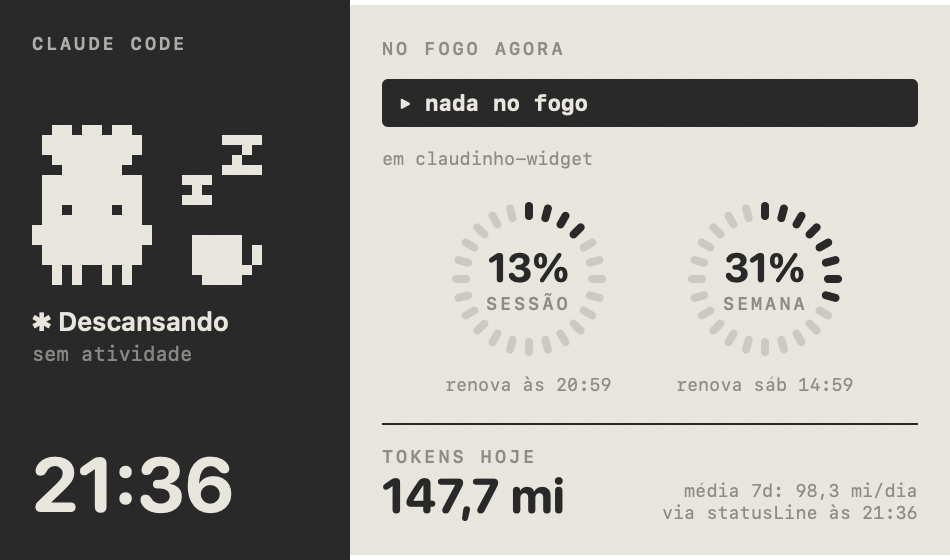
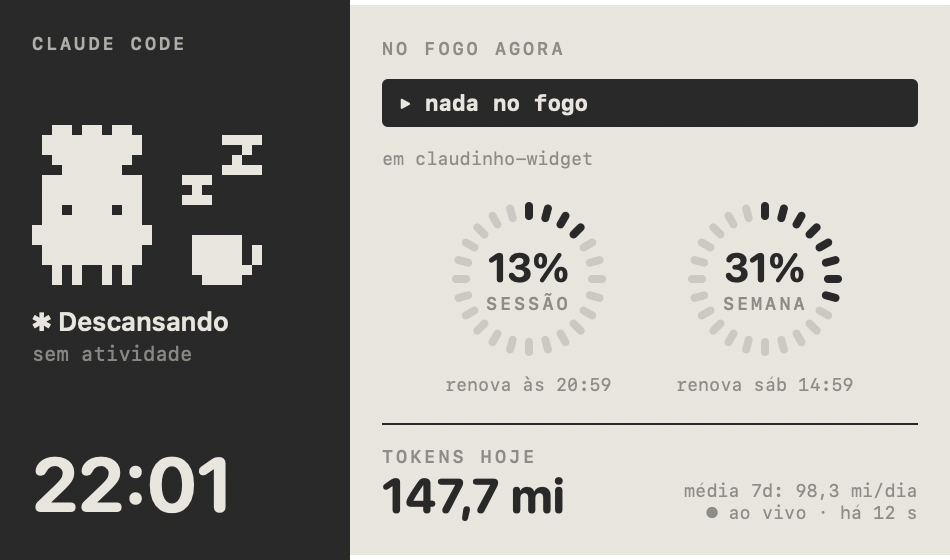
Créditos ao kindle-claude, hooks fora do repo e README atualizado
- Créditos detalhados ao Guilherme Pessoa (@guithepc · @pctheonee) no
  README, aviso MIT dele no LICENSE e nos scripts adaptados.
- setup.py copia os hooks pra ~/.claudinho/hooks: o repo pode ser
  apagado depois de instalar.
- Rodapé do painel mais curto ("● ao vivo · há 12 s") e imagens do
  README regeneradas.

Changed region(s): [[0.0916, 0.7893, 0.2442, 0.9411], [0.7021, 0.9107, 0.9768, 0.9411]]

diff --git a/Sources/App.swift b/Sources/App.swift
@@ -339,9 +339,10 @@ struct Panel: View {
                     }
                     Spacer()
                     Text("média 7d: \(Fmt.tokens(s.avg7dTokens))/dia\n" + (s.calibrated
-                         ? "ao vivo via \(m.config.calibration!.source ?? "/usage") · \(Fmt.ago(m.config.calibration!.at))"
+                         ? "● ao vivo · \(Fmt.ago(m.config.calibration!.at))"
                          : "% estimado pelos logs"))
                         .font(.system(size: 9, design: .monospaced)).foregroundStyle(faded).multilineTextAlignment(.trailing)
+                        .help(s.calibrated ? "última leitura real via \(m.config.calibration!.source ?? "/usage")" : "sem leitura real nesta janela")
                 }
             }
             .padding(16)

diff --git a/tools/preview/main.swift b/tools/preview/main.swift
@@ -27,7 +27,7 @@ func writePNG(_ cg: CGImage, _ url: URL) {
 
 @MainActor func panel(_ state: ChefState, tool: String?, detail: String?, name: String) {
     let m = Monitor(demo: state, snapshot: demoSnapshot(tool: tool, detail: detail))
-    m.config.calibration = Calibration(at: Date(), sessionPct: 0.13, sessionResetsAt: Date(), weekPct: 0.31, source: "statusLine")
+    m.config.calibration = Calibration(at: Date().addingTimeInterval(-12), sessionPct: 0.13, sessionResetsAt: Date(), weekPct: 0.31, source: "statusLine")
     let r = ImageRenderer(content: Panel(m: m).environment(\.colorScheme, .light))
     r.scale = 2
     writePNG(r.cgImage!, out.appendingPathComponent("estados/\(name).png"))

diff --git a/setup.py b/setup.py
@@ -1,9 +1,13 @@
 #!/usr/bin/env python3
 """Liga (ou desliga) os hooks e a statusLine do Claudinho no
 ~/.claude/settings.json. Faz backup antes de mexer e não apaga o que já existe.
+Os scripts são copiados pra ~/.claudinho/hooks, então o repo pode ser apagado depois.
 
     python3 setup.py            # instala
     python3 setup.py remover    # desfaz
+
+Adaptado do kindle-claude, de Guilherme Pessoa (MIT):
+https://github.com/guithepc/kindle-claude
 """
 import json
 import os
@@ -16,15 +20,21 @@ DATA = os.path.expanduser(os.environ.get("CLAUDINHO_DIR", "~/.claudinho"))
 ORIG = os.path.join(DATA, "orig_statusline.txt")
 SETTINGS = os.path.expanduser(os.environ.get("CLAUDINHO_SETTINGS", "~/.claude/settings.json"))
 PY = "/usr/bin/python3" if os.path.exists("/usr/bin/python3") else (sys.executable or "python3")
-HOOK_CMD = f'"{PY}" "{os.path.join(BASE, "hooks", "hook.py")}"'
-STATUS_CMD = f'"{PY}" "{os.path.join(BASE, "hooks", "statusline.py")}"'
+HOOKS = os.path.join(DATA, "hooks")
+HOOK_CMD = f'"{PY}" "{os.path.join(HOOKS, "hook.py")}"'
+STATUS_CMD = f'"{PY}" "{os.path.join(HOOKS, "statusline.py")}"'
 EVENTS = {"PreToolUse": "*", "PostToolUse": "*", "UserPromptSubmit": None,
           "Notification": None, "Stop": None, "SessionEnd": None}
-MARK = "claudinho-widget"
+# "claudinho-widget" reconhece instalações antigas, que apontavam pra pasta do repo.
+MARKS = (HOOKS, "claudinho-widget")
+
+
+def mine(cmd):
+    return any(m in (cmd or "") for m in MARKS)
 
 
 def ours(entry):
-    return any(MARK in (h.get("command") or "") for h in entry.get("hooks", []))
+    return any(mine(h.get("command")) for h in entry.get("hooks", []))
 
 
 def load():
@@ -46,8 +56,9 @@ def save(cfg):
 
 
 def install():
-    if MARK not in BASE:
-        sys.exit(f"A pasta do repo precisa se chamar {MARK} (o setup usa o nome pra achar os próprios hooks).")
+    os.makedirs(HOOKS, exist_ok=True)
+    for name in ("hook.py", "statusline.py"):
+        shutil.copy2(os.path.join(BASE, "hooks", name), os.path.join(HOOKS, name))
     cfg = load()
     hooks = cfg.setdefault("hooks", {})
     for event, matcher in EVENTS.items():
@@ -59,7 +70,7 @@ def install():
         hooks[event] = lst
 
     current = (cfg.get("statusLine") or {}).get("command", "")
-    if current and MARK not in current:
+    if current and not mine(current):
         os.makedirs(DATA, exist_ok=True)
         with open(ORIG, "w", encoding="utf-8") as f:
             f.write(current)
@@ -78,7 +89,7 @@ def remove():
             del hooks[event]
     if not hooks:
         cfg.pop("hooks", None)
-    if MARK in (cfg.get("statusLine") or {}).get("command", ""):
+    if mine((cfg.get("statusLine") or {}).get("command", "")):
         old = open(ORIG, encoding="utf-8").read().strip() if os.path.exists(ORIG) else ""
         if old:
             cfg["statusLine"] = {"type": "command", "command": old}

diff --git a/hooks/statusline.py b/hooks/statusline.py
@@ -1,7 +1,11 @@
 #!/usr/bin/env python3
 """statusLine do Claude Code: guarda o % exato da sessão (5h) e da semana em
 ~/.claudinho/statusline.json pro Claudinho, e imprime a linha de status.
-Se você já tinha uma statusLine, ela continua aparecendo no lugar desta."""
+Se você já tinha uma statusLine, ela continua aparecendo no lugar desta.
+
+Adaptado do kindle-claude, de Guilherme Pessoa (MIT):
+https://github.com/guithepc/kindle-claude
+"""
 import json
 import os
 import subprocess

diff --git a/hooks/hook.py b/hooks/hook.py
@@ -9,6 +9,9 @@ Só usa a biblioteca padrão, nunca imprime nada e nunca falha.
   Notification     -> pedindo permissão ou esperando você
   Stop             -> terminou
   SessionEnd       -> sessão fechada
+
+Adaptado do kindle-claude, de Guilherme Pessoa (MIT):
+https://github.com/guithepc/kindle-claude
 """
 import fcntl
 import json

diff --git a/README.md b/README.md
@@ -13,6 +13,8 @@ e quanto da sua janela de uso já foi pro fogo. Sem Kindle, sem servidor, sem Py
 
 <p align="center"><sub>Telas geradas pelo próprio app em modo demo (<code>./build.sh --preview</code>).</sub></p>
 
+> **Ideia original:** [kindle-claude](https://github.com/guithepc/kindle-claude), de **Guilherme Pessoa** ([@guithepc](https://github.com/guithepc) · @pctheonee), que transformou um Kindle velho num painel do Claude Code com o Claudinho chef. Este projeto é uma releitura dele pra barra de menu do Mac. Veja os [créditos](#créditos).
+
 ## O que é
 
 Na barra de menu fica o Claudinho animado e o % da sessão:
@@ -26,7 +28,7 @@ Clicando nele abre um painel no estilo e-ink com:
 - **Tokens de hoje** e a média diária dos últimos 7 dias.
 - **O Claudinho chef**, um mascote em pixel art que muda de animação conforme o estado.
 
-É uma releitura do [kindle-claude](https://github.com/guithepc/kindle-claude) pra quem não tem um Kindle sobrando: a mesma ideia e o mesmo clima de cozinha, só que num app nativo de 37 MB que fica parado quando você também está.
+É uma releitura do [kindle-claude](https://github.com/guithepc/kindle-claude) pra quem não tem um Kindle sobrando: a mesma ideia e o mesmo clima de cozinha, só que num app nativo de ~38 MB que acompanha o uso ao vivo e fica parado quando você também está.
 
 ## Os estados
 
@@ -85,7 +87,7 @@ O estado (pensando, ferramenta, terminou) vem dos **hooks** quando estão ligado
 ### Passo a passo
 
 ```sh
-git clone <url-deste-repo> claudinho-widget
+git clone https://github.com/AlmeidaSNicolas/claudinho-widget.git
 cd claudinho-widget
 ./install.sh              # compila, copia pra ~/Applications e abre no login
 python3 setup.py          # opcional: liga hooks e statusLine (faz backup do settings.json)
@@ -93,7 +95,14 @@ python3 setup.py          # opcional: liga hooks e statusLine (faz backup do set
 
 O Claudinho aparece na barra de menu na hora. Se rodou o `setup.py`, reinicie as sessões do Claude Code que já estavam abertas.
 
-> A pasta precisa se chamar `claudinho-widget`. O `setup.py` usa o nome pra reconhecer os próprios hooks na hora de remover.
+**Depois de instalado, o repo pode ser apagado.** O app fica em `~/Applications/Claudinho.app`, e o `setup.py` copia os hooks pra `~/.claudinho/hooks`. Só precisa do repo de novo pra atualizar ou desinstalar.
+
+| Onde fica | O quê |
+|---|---|
+| `~/Applications/Claudinho.app` | o app |
+| `~/Library/LaunchAgents/local.claudinho.monitor.plist` | abre o app no login |
+| `~/.claudinho/` | config, hooks copiados e o que eles gravam |
+| `~/.claude/settings.json` | as entradas dos hooks e da statusLine (com backup ao lado) |
 
 ### Configuração
 
@@ -117,11 +126,12 @@ Os limites se ajustam sozinhos a cada leitura real em que o % andou. Normalmente
 | Ler o uso real agora | ⋯ → **Recalibrar agora** (lê o `/usage`) |
 | Calibrar à mão | ⋯ → **Calibrar à mão…** e copiar os números do `/usage` |
 | Sair | ⋯ → **Sair do Claudinho** (volta no próximo login) |
-| Atualizar depois de mexer no código | `./install.sh` |
+| Atualizar depois de mexer no código | `./install.sh` (e `python3 setup.py` se mexeu nos hooks) |
 | Regenerar as imagens do README | `./build.sh --preview` |
 | Regenerar o ícone do app | `./build.sh --icon` |
 | Remover hooks e statusLine | `python3 setup.py remover` |
 | Desinstalar o app | `./install.sh --uninstall` |
+| Desinstalar sem o repo | `launchctl bootout gui/$UID/local.claudinho.monitor`, apagar os itens da tabela acima e tirar os hooks do `~/.claude/settings.json` |
 
 Com a tampa fechada o Mac dorme, e o Claudinho junto. Quando acorda, ele atualiza na hora.
 
@@ -163,7 +173,17 @@ Problemas encontrados no caminho e como resolver: [docs/problemas.md](docs/probl
 
 ## Créditos
 
-Ideia, clima de cozinha e a arquitetura de hooks + statusLine vêm do [kindle-claude](https://github.com/guithepc/kindle-claude), de Guilherme Pessoa (MIT). Sprites, anéis e telas daqui foram desenhados do zero, em código.
+Este projeto não existiria sem o **[kindle-claude](https://github.com/guithepc/kindle-claude)**, de **Guilherme Pessoa** ([@guithepc](https://github.com/guithepc) no GitHub, @pctheonee). Dele vêm:
+
+- **a ideia**: um painel de mesa que mostra o que o Claude Code está fazendo e quanto do limite já foi;
+- **o Claudinho chef** e o clima de cozinha: "no fogo agora", panelas, cebola, frigideira, sino, cochilo com café;
+- **o layout do painel**: mascote no lado escuro, anéis de sessão e semana no lado claro, tokens do dia embaixo;
+- **a arquitetura de hooks + statusLine**: `hooks/hook.py`, `hooks/statusline.py` e `setup.py` foram adaptados dos dele (licença MIT, com o aviso de copyright mantido em [LICENSE](LICENSE));
+- **a pixel art escrita em texto**, em vez de desenhada num editor.
+
+Daqui são o app nativo da barra de menu, a leitura ao vivo do `/usage`, a projeção por tokens ponderados e os sprites, anéis, telas e ícone, redesenhados do zero em código.
+
+Vai lá dar uma estrela no [repo original](https://github.com/guithepc/kindle-claude). ⭐
 
 > Projeto pessoal, sem afiliação com a Anthropic. O Claudinho é fan art inspirada no mascote do Claude Code.
 

diff --git a/docs/problemas.md b/docs/problemas.md
@@ -12,7 +12,7 @@
 | `@State` não compila só com as Command Line Tools | No SDK novo `@State` virou macro, e o plugin só vem com o Xcode. O formulário usa um `ObservableObject` com `@StateObject`. |
 | ~5% de CPU com o painel fechado | O `MenuBarExtra` redesenhava o ícone a cada meio segundo, e o macOS copia o ícone pra cada tela. Ícone em AppKit, 1 quadro por segundo, cache de sprites e animação só quando trabalhando. |
 | ~6% de CPU com o painel aberto | O painel inteiro redesenhava a cada quadro. O quadro foi pra um `ObservableObject` separado que só o desenho do chef observa. |
-| No app do Claude, a statusLine dizia 1% enquanto o `/usage` dizia 9% | Ela pode repetir um `rate_limits` antigo com horário novo. Leitura menor que a anterior na mesma janela é ignorada, o `/usage` continua rodando a cada 30 min e o limite só é remedido entre leituras do `/usage`. |
+| No app do Claude, a statusLine dizia 1% enquanto o `/usage` dizia 9% | Ela pode repetir um `rate_limits` antigo com horário novo. Leitura menor que a anterior na mesma janela é ignorada, o `/usage` continua rodando mesmo com statusLine e o limite só é remedido entre leituras do `/usage`. |
 | A statusLine "renovava" a âncora a cada 5 s e o `/usage` nunca rodava | O `config.json` guarda datas sem frações de segundo, então a statusLine parecia sempre 0,4 s mais nova. Tolerância de 1 s na comparação. |
 | % atrasado até 30 min | O `/usage` passou a ser lido por evento: a cada 60 s enquanto o Claude trabalha e 15 s depois de terminar. |
 | Dois Claudinhos na barra (um do login, outro aberto pelo Finder) | Ao abrir, o app fecha se já tem outro rodando. |

diff --git a/docs/como-funciona.md b/docs/como-funciona.md
@@ -29,19 +29,19 @@ Por modelo: Opus 1, Sonnet 0,6, Haiku 0,2.
 
 ### Estado e permissão: hooks (opcional)
 
-`python3 setup.py` adiciona estes hooks ao `~/.claude/settings.json`, sem remover os que já existem, e faz backup antes:
+`python3 setup.py` copia `hooks/hook.py` e `hooks/statusline.py` pra `~/.claudinho/hooks` e adiciona estes hooks ao `~/.claude/settings.json`, sem remover os que já existem, e faz backup antes. Como os scripts ficam fora do repo, ele pode ser apagado depois:
 
 ```json
 {
   "hooks": {
-    "PreToolUse":       [{ "matcher": "*", "hooks": [{ "type": "command", "command": "\"/usr/bin/python3\" \"<REPO>/hooks/hook.py\"" }] }],
+    "PreToolUse":       [{ "matcher": "*", "hooks": [{ "type": "command", "command": "\"/usr/bin/python3\" \"~/.claudinho/hooks/hook.py\"" }] }],
     "PostToolUse":      [{ "matcher": "*", "hooks": [{ "type": "command", "command": "..." }] }],
     "UserPromptSubmit": [{ "hooks": [{ "type": "command", "command": "..." }] }],
     "Notification":     [{ "hooks": [{ "type": "command", "command": "..." }] }],
     "Stop":             [{ "hooks": [{ "type": "command", "command": "..." }] }],
     "SessionEnd":       [{ "hooks": [{ "type": "command", "command": "..." }] }]
   },
-  "statusLine": { "type": "command", "command": "\"/usr/bin/python3\" \"<REPO>/hooks/statusline.py\"" }
+  "statusLine": { "type": "command", "command": "\"/usr/bin/python3\" \"~/.claudinho/hooks/statusline.py\"" }
 }
 ```
 
